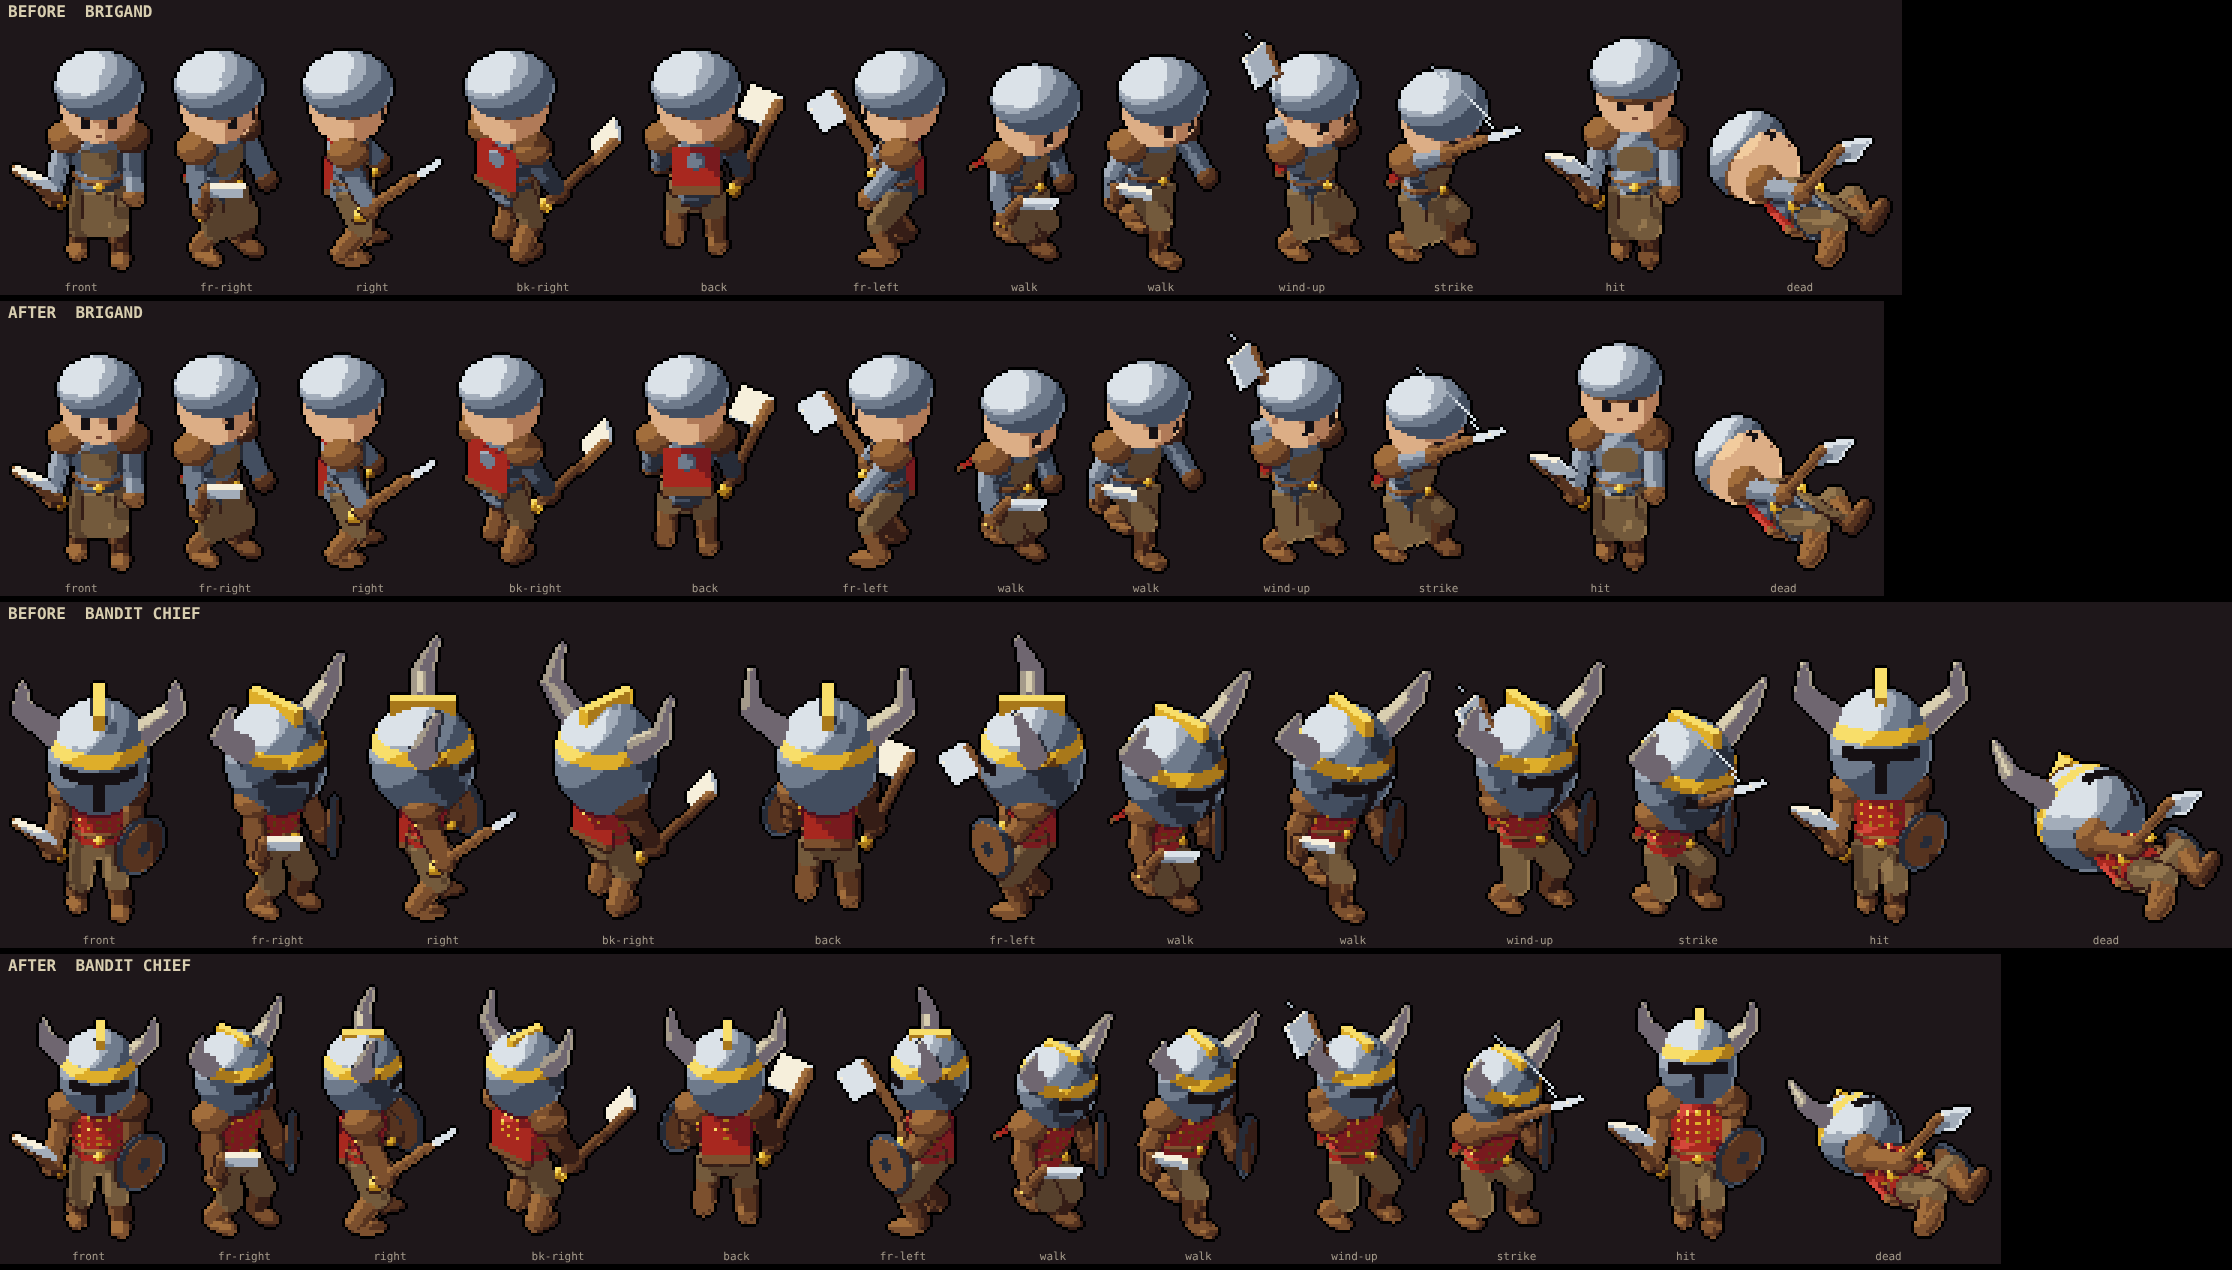
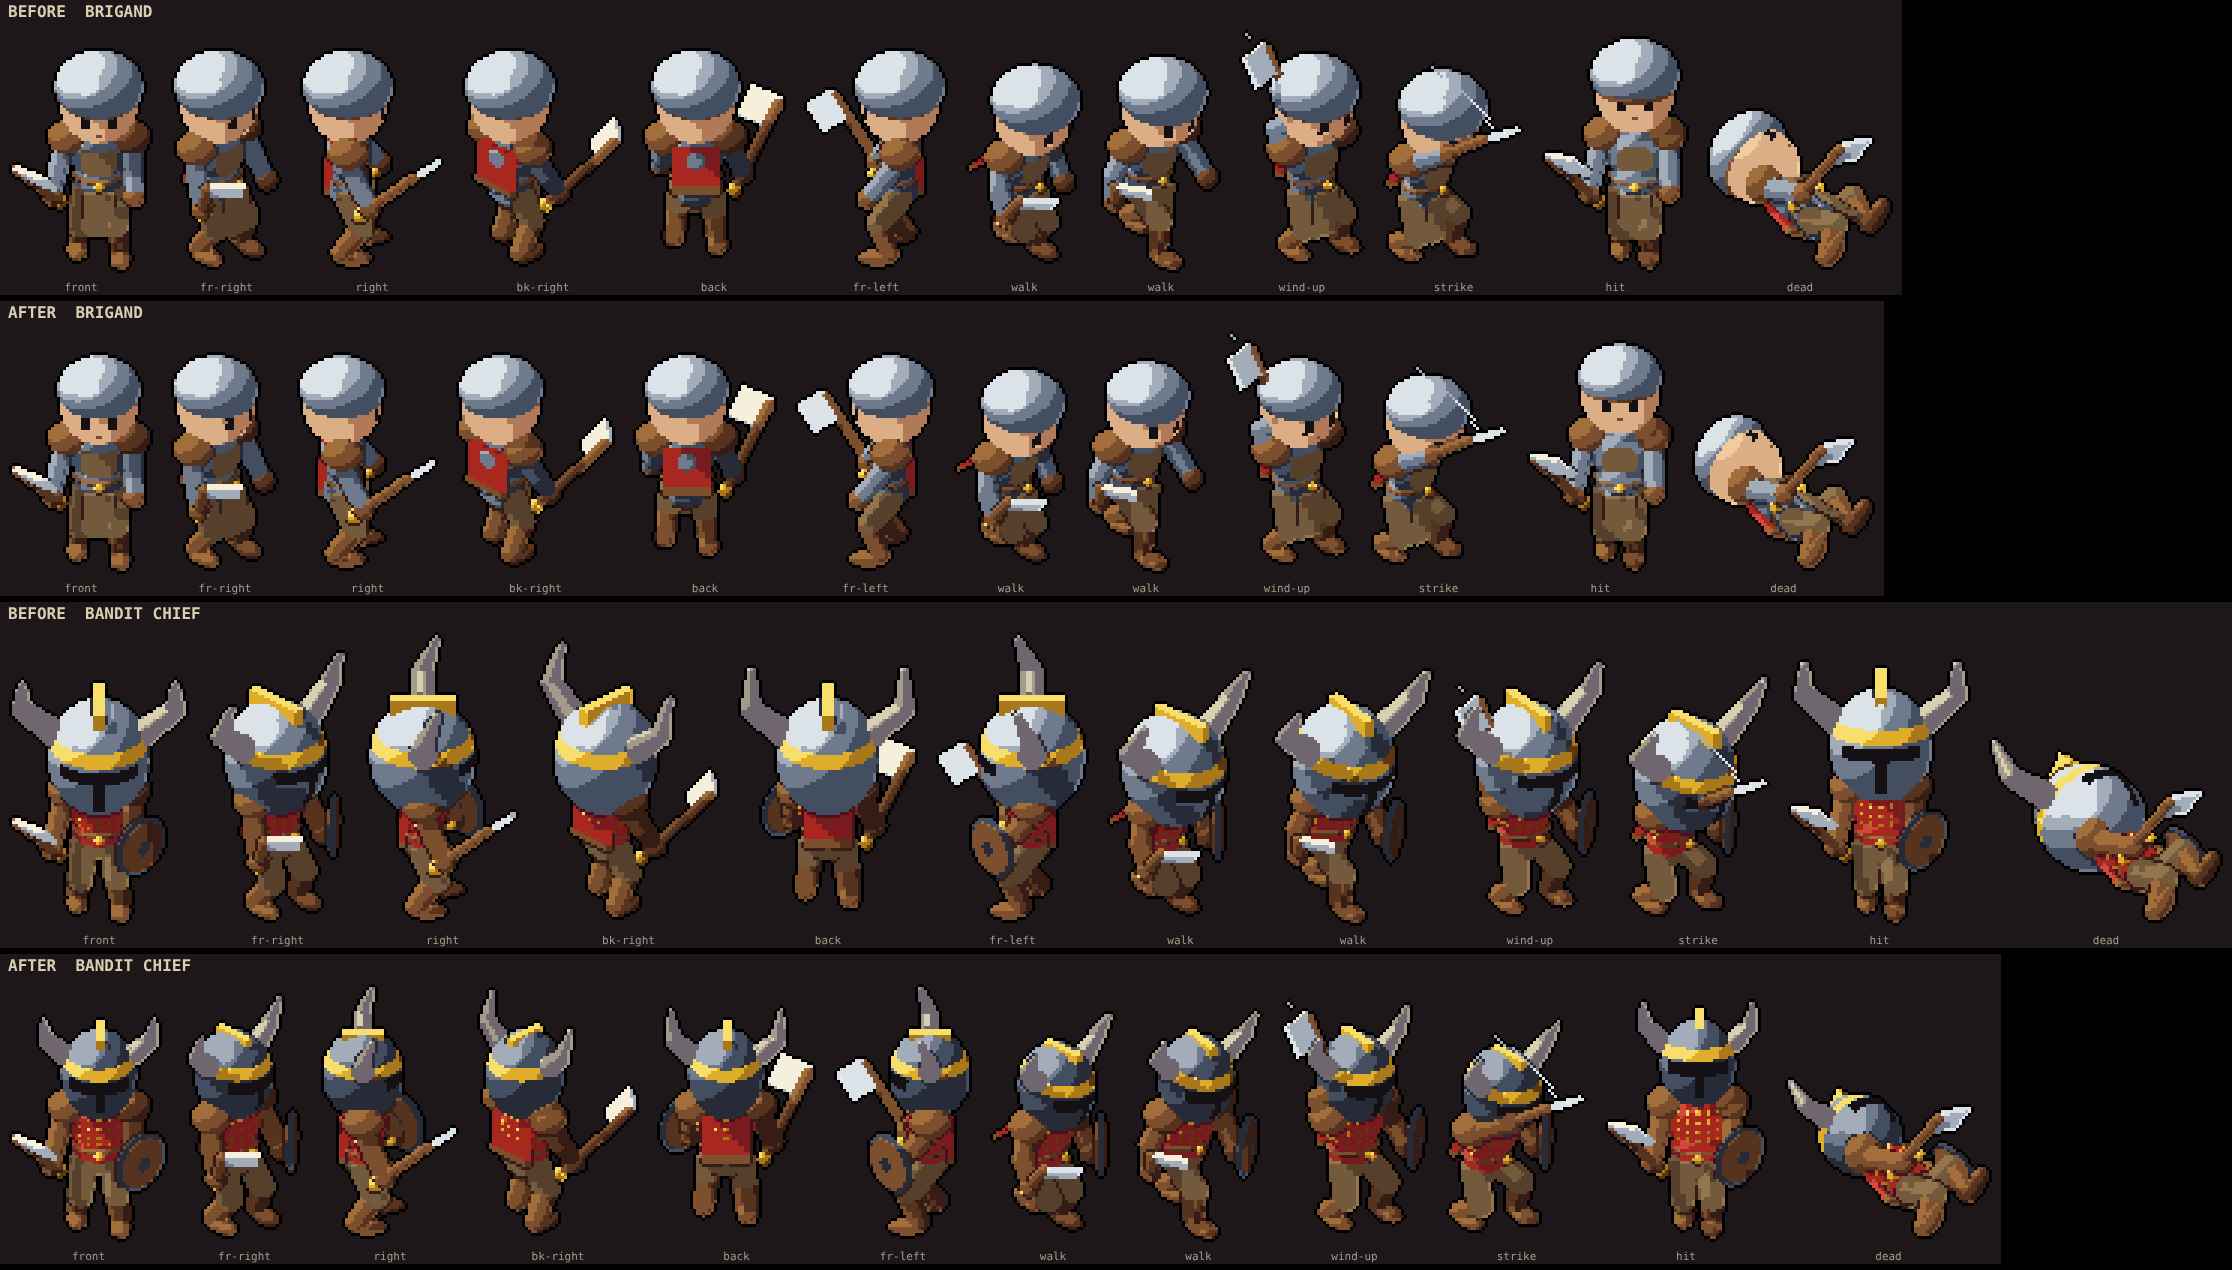
Art A5 round 2: warrior helms closer to the mock-up
Upright shells, bold grille and face plate, bold barbute T, bascinet breathing holes,
dark blued horned helm, bolder crown. No clipping; other monsters unchanged.

Claude-Session: https://claude.ai/code/session_01QbDoFLJr5rX34eWgCEDPgG

diff --git a/diablo-clone/game/js/actors.js b/diablo-clone/game/js/actors.js
@@ -759,39 +759,39 @@ function heroRig(eq, st) {
   } else {
     if (eq.helm === 'barbute') {
       // barbute: close round helm with a T-shaped face opening
-      const hc = V.mad(hd, up, 0.4);   // art A5 (the user's snug-fit mock-up): a shell fitted to the head
-      r.ell(hc, [4.45, 4.4, 4.9], M.STEEL, helmF, { mf: p => {
+      const hc = V.mad(hd, up, 0.1);   // art A5 (the user's snug-fit mock-up): an upright shell fitted to the head
+      r.ell(hc, [4.45, 4.15, 5.3], M.STEEL, helmF, { mf: p => {
         const q = V.sub(p, hc), f2 = V.dot(q, fwd), s2 = Math.abs(V.dot(q, sideR)), z2 = V.dot(q, up);
-        if (f2 < 1.3) return 0;
-        return (Math.abs(z2 - 1.3) < 0.9 && s2 < 3.0) || (s2 < 1.0 && z2 < 1.3 && z2 > -2.7) ? M.DARK : 0;   // set high and wide so it reads from above
+        if (f2 < 1.2) return 0;
+        return (Math.abs(z2 - 1.4) < 1.0 && s2 < 3.1) || (s2 < 1.25 && z2 < 1.4 && z2 > -3.2) ? M.DARK : 0;   // a bold T   // set high and wide so it reads from above
       } });
-      r.box(V.mad(hc, up, 4.55), [2.6, 0.5, 0.55], M.STEEL, helmF);   // a low ridge, not a fin
+      r.box(V.mad(hc, up, 4.95), [2.6, 0.5, 0.55], M.STEEL, helmF);   // a low ridge, not a fin
     } else if (eq.helm === 'great' || eq.helm === 'crown' || eq.helm === 'bascinet') {
       // great helm: tall dome with a raised crest ridge and a barred visor plate on the front
-      const hc = V.mad(hd, up, 0.4);   // art A5 (the user's snug-fit mock-up): a shell fitted to the head
-      r.ell(hc, [4.5, 4.45, 5.1], PL, helmF);
-      r.box(V.mad(hc, up, 4.75), [2.6, 0.5, 0.55], PL, helmF);   // a low ridge, not a fin
-      const vc = V.add(V.mad(hd, fwd, 3.95), V.mul(up, 0.2));
+      const hc = V.mad(hd, up, 0.1);   // art A5 (the user's snug-fit mock-up): an upright shell fitted to the head
+      r.ell(hc, [4.5, 4.2, 5.4], PL, helmF);
+      r.box(V.mad(hc, up, 5.05), [2.6, 0.5, 0.55], PL, helmF);   // a low ridge, not a fin
+      const vc = V.add(V.mad(hd, fwd, 3.85), V.mul(up, -0.3));
       const vf = frameAlong(V.norm(V.add(fwd, V.mul(up, 0.45))), up);   // tipped up toward the light so the plate reads bright
-      r.box(vc, [1.0, 2.9, 2.1], PL, vf, { bias: 1, mf: p => {
+      r.box(vc, [1.0, 3.4, 2.7], M.STEEL, vf, { bias: 1, mf: p => {   // a face plate filling the front, with a bold grille: three dark slots between bars
         const q = V.sub(p, vc), s2 = V.dot(q, sideR), z2 = V.dot(q, vf[2]);
-        if (V.dot(q, vf[0]) < 0.7 || Math.abs(z2) > 1.6) return 0;
-        for (const c of [-1.6, 0, 1.6]) if (Math.abs(s2 - c) < 0.45) return M.DARK;   // three bars, each a full pixel (at the 1.5x head)
+        if (V.dot(q, vf[0]) < 0.7 || Math.abs(z2) > 2.0) return 0;
+        for (const c of [-1.45, 0, 1.45]) if (Math.abs(s2 - c) < 0.5) return M.DARK;
         return 0;
       } });
-      for (const sd of [-1, 1]) r.sph(V.add(V.add(V.mad(hd, fwd, 2.6), V.mul(sideR, sd * 3.6)), V.mul(up, 0.4)), 0.9, M.STEEL);   // visor rivets
-      if (eq.helm === 'bascinet') { r.cone(V.mad(hc, up, 3.6), V.add(V.mad(hc, up, 7.2), V.mul(fwd, -1.3)), 2.8, 0.4, PL); r.cone(vc, V.add(V.mad(vc, fwd, 2.2), V.mul(up, -0.4)), 1.8, 0.6, PL); }   // round 43: the bascinet's pointed skull and snouted visor
+      for (const sd of [-1, 1]) r.sph(V.add(V.add(V.mad(hd, fwd, 2.5), V.mul(sideR, sd * 3.5)), V.mul(up, 0.0)), 0.9, M.STEEL);   // visor rivets
+      if (eq.helm === 'bascinet') { r.cone(V.mad(hc, up, 3.9), V.add(V.mad(hc, up, 7.6), V.mul(fwd, -1.3)), 2.8, 0.4, PL); { const sn = V.add(V.mad(vc, fwd, 2.2), V.mul(up, -0.4)); r.cone(vc, sn, 1.9, 0.7, PL, { mf: p => { const q = V.sub(p, vc), t = V.dot(q, fwd), u = V.dot(q, sideR); return t > 0.9 && t < 1.9 && Math.abs(Math.abs(u) - 0.75) < 0.32 ? M.DARK : 0; } }); }   /* the snout, with breathing holes */ }   // round 43: the bascinet's pointed skull and snouted visor
       if (eq.helm === 'crown') {   // a gold circlet with points and a red stone
-        r.cyl(V.mad(hc, up, 2.2), V.mad(hc, up, 3.3), 4.1, M.GOLD);
+        r.cyl(V.mad(hc, up, 2.3), V.mad(hc, up, 3.7), 4.15, M.GOLD);   // a bolder circlet
         const oak = hasFx(eq, 'oak');   // the Oak King's crown sprouts leaves and a green stone
-        for (let k = 0; k < 6; k++) { const a = k / 6 * Math.PI * 2, b = V.add(V.mad(hc, up, 3.1), V.add(V.mul(fwd, Math.cos(a) * 3.8), V.mul(sideR, Math.sin(a) * 3.8))); r.cone(b, V.mad(b, up, 2.0), oak ? 1.2 : 0.9, 0.2, oak ? M.LEAFM : M.GOLD); }
+        for (let k = 0; k < 6; k++) { const a = k / 6 * Math.PI * 2, b = V.add(V.mad(hc, up, 3.5), V.add(V.mul(fwd, Math.cos(a) * 3.8), V.mul(sideR, Math.sin(a) * 3.8))); r.cone(b, V.mad(b, up, 2.6), oak ? 1.3 : 1.15, 0.2, oak ? M.LEAFM : M.GOLD); }
         r.sph(V.add(V.mad(hc, up, 2.75), V.mul(fwd, 4.2)), 0.8, oak ? M.EYE_GRN : M.EYE_RED, { noShadow: true });
       }
     } else {
-    r.ell(hd, [4.5, 4.45, 5.0], M.STEEL, helmF, { mf: p => {   // art A5 (the user's snug-fit mock-up): fitted to the head
+    r.ell(V.mad(hd, up, -0.2), [4.5, 4.2, 5.2], M.SLATE, helmF, { mf: p => {   // art A5 (dark blued steel, as in the mock-up) (the user's snug-fit mock-up): fitted to the head
       const q = V.sub(p, hd), f2 = V.dot(q, fwd), s2 = V.dot(q, sideR), z2 = V.dot(q, up);
       if (Math.abs(z2 - 1.9) < 0.65) return M.GOLD;
-      if (f2 > 2.0 && Math.abs(z2 - 0.3) < 0.65 && Math.abs(s2) < 3.2) return M.DARK;            // eye slit
+      if (f2 > 1.9 && Math.abs(z2 - 0.3) < 0.75 && Math.abs(s2) < 3.4) return M.DARK;            // eye slit
       if (f2 > 2.6 && Math.abs(s2) < 0.5 && z2 < 0 && z2 > -3.3) return M.DARK;                 // breath slit
       return 0;
     } });

diff --git a/diablo-clone/art/review/a5-helms/index.html b/diablo-clone/art/review/a5-helms/index.html
@@ -42,7 +42,7 @@ details .strip { border: 0; border-top: 1px solid var(--rule); }
 <div class="wrap">
   <header>
     <h1>Snug warrior helms <em>A5</em></h1>
-    <p class="lede">All seven warrior helms rebuilt to your snug-fit mock-up: the closed helms (great helm, barbute, crown, bascinet, horned) now fit about the size of the bare head instead of a bucket half again as big, with their visors, ridges, spike, horns and crown scaled to match. The cap and spangenhelm sit a little snugger too. Nothing else on the hero changed, and no frame clips.</p>
+    <p class="lede">All seven warrior helms rebuilt to your snug-fit mock-up, in two rounds: the closed helms (great helm, barbute, crown, bascinet, horned) now fit about the size of the bare head instead of a bucket half again as big, now upright like yours rather than round, with bold grilles and a big face plate, a bold T on the barbute, breathing holes on the bascinet, a dark blued-steel horned helm and a bolder crown. The cap and spangenhelm sit a little snugger too. Nothing else on the hero changed, and no frame clips.</p>
   </header>
 
   <section>
@@ -75,10 +75,14 @@ details .strip { border: 0; border-top: 1px solid var(--rule); }
   </section>
 
   <section>
-    <div class="head"><h2>Every pass</h2><span class="tag">3 passes, each won both orders</span></div>
+    <div class="head"><h2>Every pass</h2><span class="tag">6 passes over two rounds</span></div>
     <p class="verdict" style="max-width:72ch;margin:0">Pass 1 shrank every shell and its details, but the closed helms were still about 1.2x the bare head, with a fin-like ridge at the back. Pass 2 brought them to head size and cut the ridges, spike and horns down. Pass 3 gave the horns back a little length so they still read as horns at phone size.</p>
     <details><summary>Pass 1 (top: before, bottom: pass 1)</summary><div class="strip"><img src="pass1.png" alt="Pass 1"></div></details>
     <details><summary>Pass 2 (top: pass 1, bottom: pass 2)</summary><div class="strip"><img src="pass2.png" alt="Pass 2"></div></details>
     <details><summary>Pass 3, horns at game size (top: pass 2, bottom: pass 3)</summary><div class="strip"><img src="pass3-horns.png" alt="Pass 3"></div></details>
+    <p class="verdict" style="max-width:72ch;margin:0">Round 2 (you asked for more). Pass 4: the closed shells made upright and a little narrower, like your mock-up, instead of round balls; a bigger, bolder grille; a bold T on the barbute; breathing holes on the bascinet snout; the horned helm in dark blued steel. Pass 5: a brighter face plate came out cream like the sword (lost, reverted) and a bolder crown (kept). Pass 6: the bigger face plate in steel (kept).</p>
+    <details><summary>Pass 4, zoomed: great helm, barbute, bascinet (top: pass 3, bottom: pass 4)</summary><div class="strip"><img src="pass4-zoom.png" alt="Pass 4"></div></details>
+    <details><summary>Pass 5, zoomed: the cream plate that lost, and the crown that won</summary><div class="strip"><img src="pass5-zoom.png" alt="Pass 5"></div></details>
+    <details><summary>Pass 6, zoomed (top: pass 4, bottom: pass 6)</summary><div class="strip"><img src="pass6-zoom.png" alt="Pass 6"></div></details>
   </section>
 </div>

diff --git a/diablo-clone/art/ART_LOG.md b/diablo-clone/art/ART_LOG.md
@@ -122,3 +122,8 @@ unchanged. The Brigand (cap) and Bandit Chief (horned) wear these helms and chan
 monster renders pixel-identical. No hero frame clips (296 frames per helm: idle, walk, atk1-3, hit, death x 8).
 3 passes, each won both orders (pass 3 restored a little horn length so the horns read at 1x).
 New tool options: `tools/capture/heroparts.cjs <outDir> [zoom] [gameDir] [helm,chest]`.
+- **A5 round 2** (the user asked for more): closed shells made upright and narrower ([4.5, 4.2, 5.4] / barbute
+  [4.45, 4.15, 5.3], centre up 0.1) like the mock-up; a bigger STEEL face plate [1.0, 3.4, 2.7] with three bold slots;
+  a bold barbute T; breathing holes on the bascinet snout; horned helm in M.SLATE; bolder crown circlet and points.
+  A BLADE (bright) face plate was tried and reverted (it renders cream like the sword). Still no clipping in 2072
+  hero frames; all monsters other than the Brigand and Bandit Chief unchanged.
